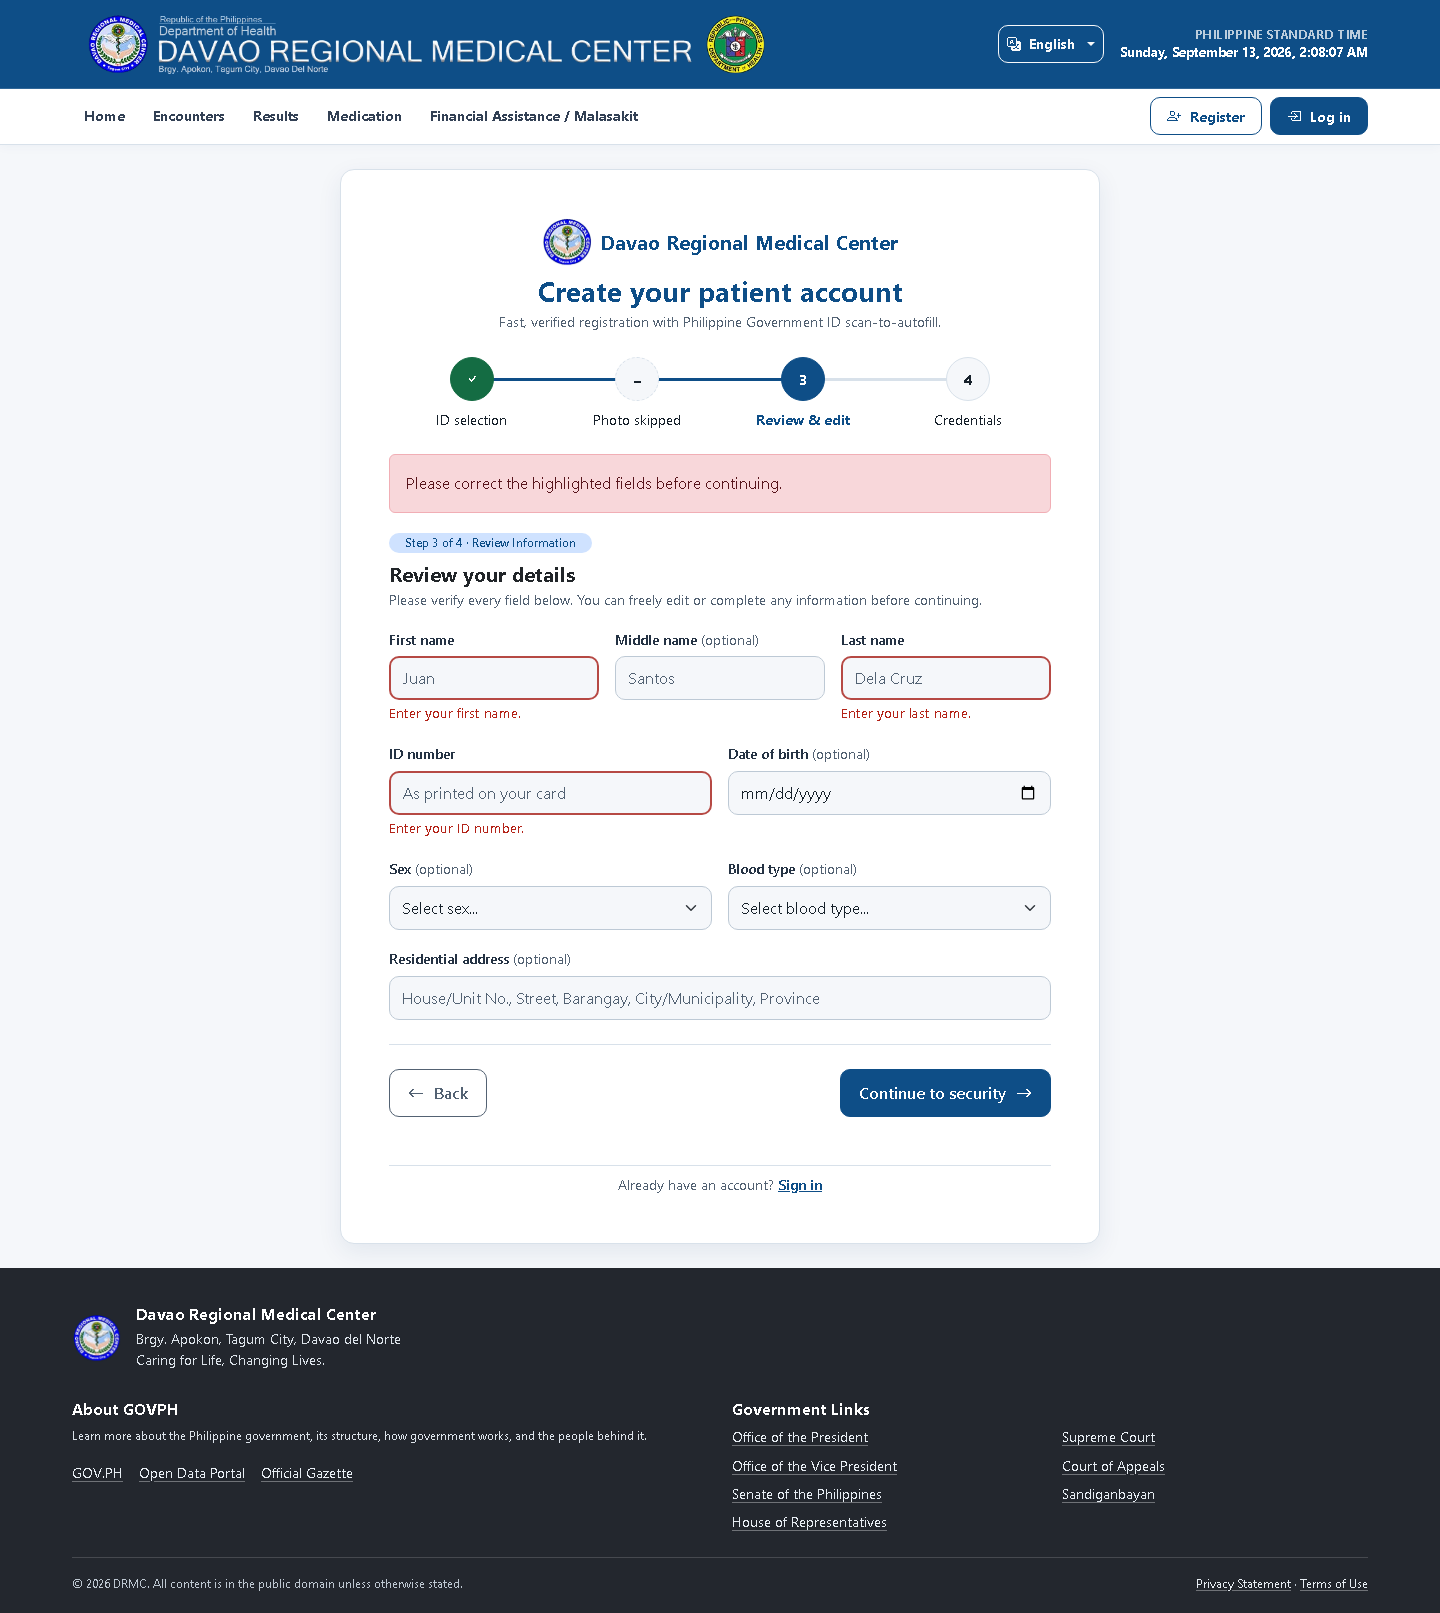
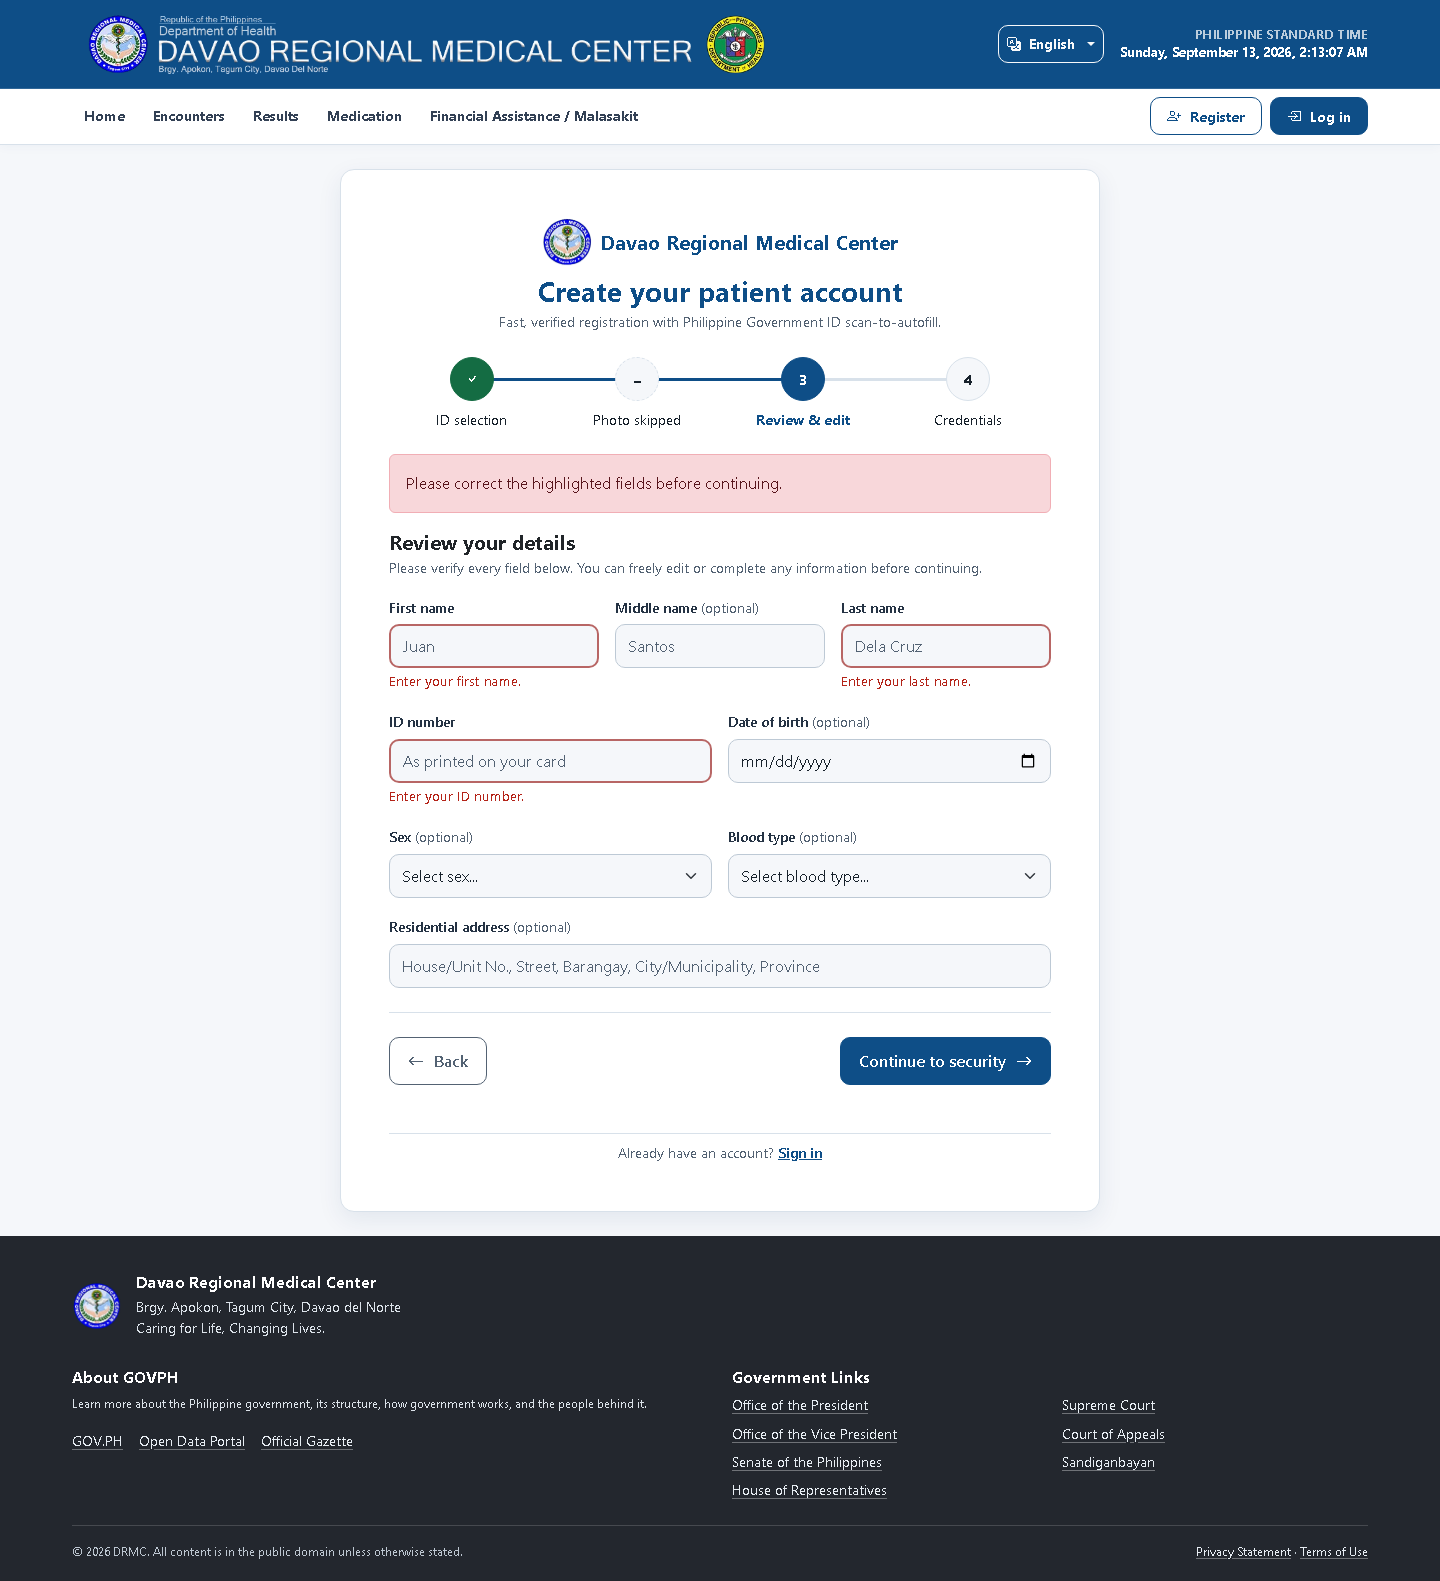
Remove redundant signup step badges

diff --git a/docs/SIGNUP_VALIDATION.md b/docs/SIGNUP_VALIDATION.md
@@ -5,6 +5,7 @@ Validation date: 2026-09-13. Follow-up to the desktop/mobile audit in PR #7.
 ## Changes
 
 - The four-step indicator uses the same styles from first render onward. Equal-width columns align circles and labels. Completed steps show a check, the current step has `aria-current`, and manual entry marks the photo step as skipped. The circles are progress information rather than buttons that do nothing.
+- The redundant “Step X of 4” badges are removed from every form step; the shared progress indicator and section headings provide the navigation context.
 - All step action buttons share a 48px minimum height and regular text size. Desktop actions fit on one line; phone actions stack. The photo step keeps Back separate from Manual Entry and Scan ID.
 - All registration JavaScript alerts are replaced by inline feedback. Required fields show their own messages and the first invalid field receives focus. Native form popups are disabled while client and server validation remain active. Enter advances the review step; final submission checks the entire form and prevents duplicate submissions.
 - Scan failures no longer claim that autofill succeeded. The scan state disables conflicting controls and restores them after the response. Upload actions support keyboard activation.
